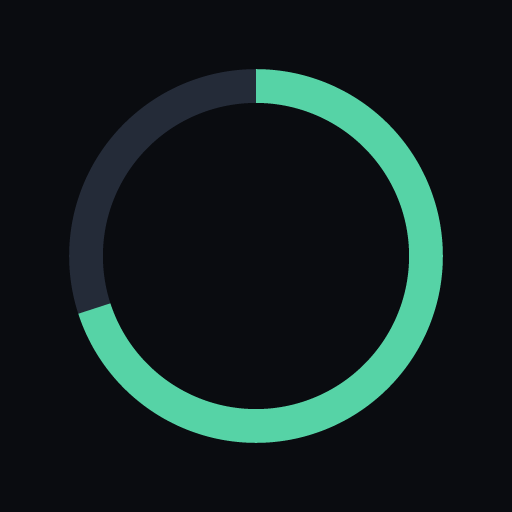
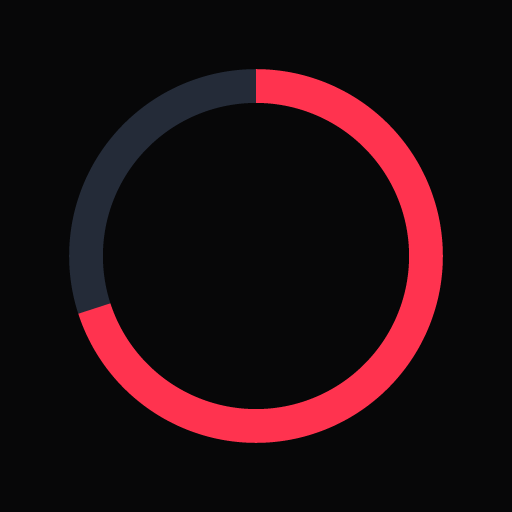
reskin: form-coach red/black palette

Changed region(s): [[0.1562, 0.125, 0.875, 0.875]]

diff --git a/styles.css b/styles.css
@@ -1,16 +1,16 @@
 /* Fast — minimal dark fasting timer. One accent, one rhythm, no chrome. */
 
 :root {
-  --bg:        #0A0C10;
-  --surface:   #141821;
-  --surface-2: #1C212C;
-  --line:      #242B38;
-  --text:      #E9EEF5;
-  --muted:     #8B95A7;
-  --dim:       #5C6678;
-  --accent:    #56D3A6;
-  --accent-dim:#2B6B57;
-  --warn:      #E4B363;
+  --bg:        #070708;
+  --surface:   #111113;
+  --surface-2: #1A1A1E;
+  --line:      #2B2B31;
+  --text:      #F8F8FA;
+  --muted:     #A2A2AD;
+  --dim:       #6B6B76;
+  --accent:    #FF334F;
+  --accent-dim:#63202B;
+  --warn:      #FFCB69;
   --radius:    16px;
   --pad:       20px;
 }
@@ -116,7 +116,7 @@ html, body {
 }
 .chip small { display: block; font-size: 11px; color: var(--dim); }
 .chip[aria-pressed="true"] {
-  background: var(--accent-dim); border-color: var(--accent); color: #EAFFF7;
+  background: var(--accent-dim); border-color: var(--accent); color: #FFECEF;
 }
 .chip[aria-pressed="true"] small { color: #B7EBD8; }
 
@@ -160,7 +160,7 @@ button.fact:active { background: var(--surface-2); }
 .btn-primary {
   display: block; width: 100%; margin: 22px 0 0;
   padding: 17px; border: 0; border-radius: var(--radius);
-  background: var(--accent); color: #06231A;
+  background: var(--accent); color: #FFFFFF;
   font: 600 16px/1 inherit; letter-spacing: .01em;
   cursor: pointer; -webkit-tap-highlight-color: transparent;
 }
@@ -184,9 +184,9 @@ button.fact:active { background: var(--surface-2); }
 .stage-head h3 { margin: 0; font-size: 17px; font-weight: 600; }
 .pill {
   flex: 0 0 auto; font-size: 11px; padding: 4px 9px; border-radius: 999px;
-  background: var(--accent-dim); color: #CFF5E7; font-variant-numeric: tabular-nums;
+  background: var(--accent-dim); color: #FFD4DA; font-variant-numeric: tabular-nums;
 }
-.stage-card p { margin: 0 0 10px; font-size: 14.5px; color: #C6CEDB; }
+.stage-card p { margin: 0 0 10px; font-size: 14.5px; color: #C9C9D2; }
 .benefits { margin: 0; padding: 0; list-style: none; }
 .benefits li {
   position: relative; padding-left: 18px; font-size: 14px;
@@ -217,7 +217,7 @@ button.fact:active { background: var(--surface-2); }
 .tl-item.done::before { background: var(--accent-dim); border-color: var(--accent-dim); }
 .tl-item.current::before {
   background: var(--accent); border-color: var(--accent);
-  box-shadow: 0 0 0 4px rgba(86, 211, 166, .18);
+  box-shadow: 0 0 0 4px rgba(255, 51, 79, .18);
 }
 .tl-h {
   display: flex; gap: 8px; align-items: baseline; width: 100%;
@@ -230,7 +230,7 @@ button.fact:active { background: var(--surface-2); }
   width: 18px; text-align: center;
 }
 .tl-detail { padding: 8px 18px 0 0; }
-.tl-detail p { margin: 0 0 10px; font-size: 14px; color: #C6CEDB; }
+.tl-detail p { margin: 0 0 10px; font-size: 14px; color: #C9C9D2; }
 .tl-when {
   font-size: 12px; color: var(--dim); font-variant-numeric: tabular-nums;
   min-width: 52px;
@@ -253,13 +253,13 @@ button.fact:active { background: var(--surface-2); }
   flex: 0 0 auto; font-size: 11px; padding: 3px 8px; border-radius: 999px;
   background: var(--surface-2); color: var(--muted);
 }
-.badge.hit { background: var(--accent-dim); color: #CFF5E7; }
+.badge.hit { background: var(--accent-dim); color: #FFD4DA; }
 .empty { color: var(--dim); font-size: 14px; }
 
 /* ── Sheets ──────────────────────────────────────────────────── */
 .sheet-backdrop {
   position: fixed; inset: 0; z-index: 20;
-  background: rgba(5, 7, 10, .68);
+  background: rgba(7, 7, 8, .68);
   display: flex; align-items: flex-end; justify-content: center;
   padding: 16px;
   padding-bottom: calc(env(safe-area-inset-bottom) + 16px);

diff --git a/index.html b/index.html
@@ -5,7 +5,7 @@
 <title>Fast</title>
 <meta name="viewport" content="width=device-width, initial-scale=1, viewport-fit=cover">
 <meta name="description" content="A minimal offline fasting timer.">
-<meta name="theme-color" content="#0A0C10">
+<meta name="theme-color" content="#070708">
 <meta name="color-scheme" content="dark">
 <meta name="apple-mobile-web-app-capable" content="yes">
 <meta name="mobile-web-app-capable" content="yes">

diff --git a/sw.js b/sw.js
@@ -5,7 +5,7 @@
  * Bump CACHE whenever any shell file changes — old caches are dropped on
  * activate and the new worker takes over immediately.
  */
-const CACHE = 'fast-v3';
+const CACHE = 'fast-v4';
 
 const SHELL = [
   './',
